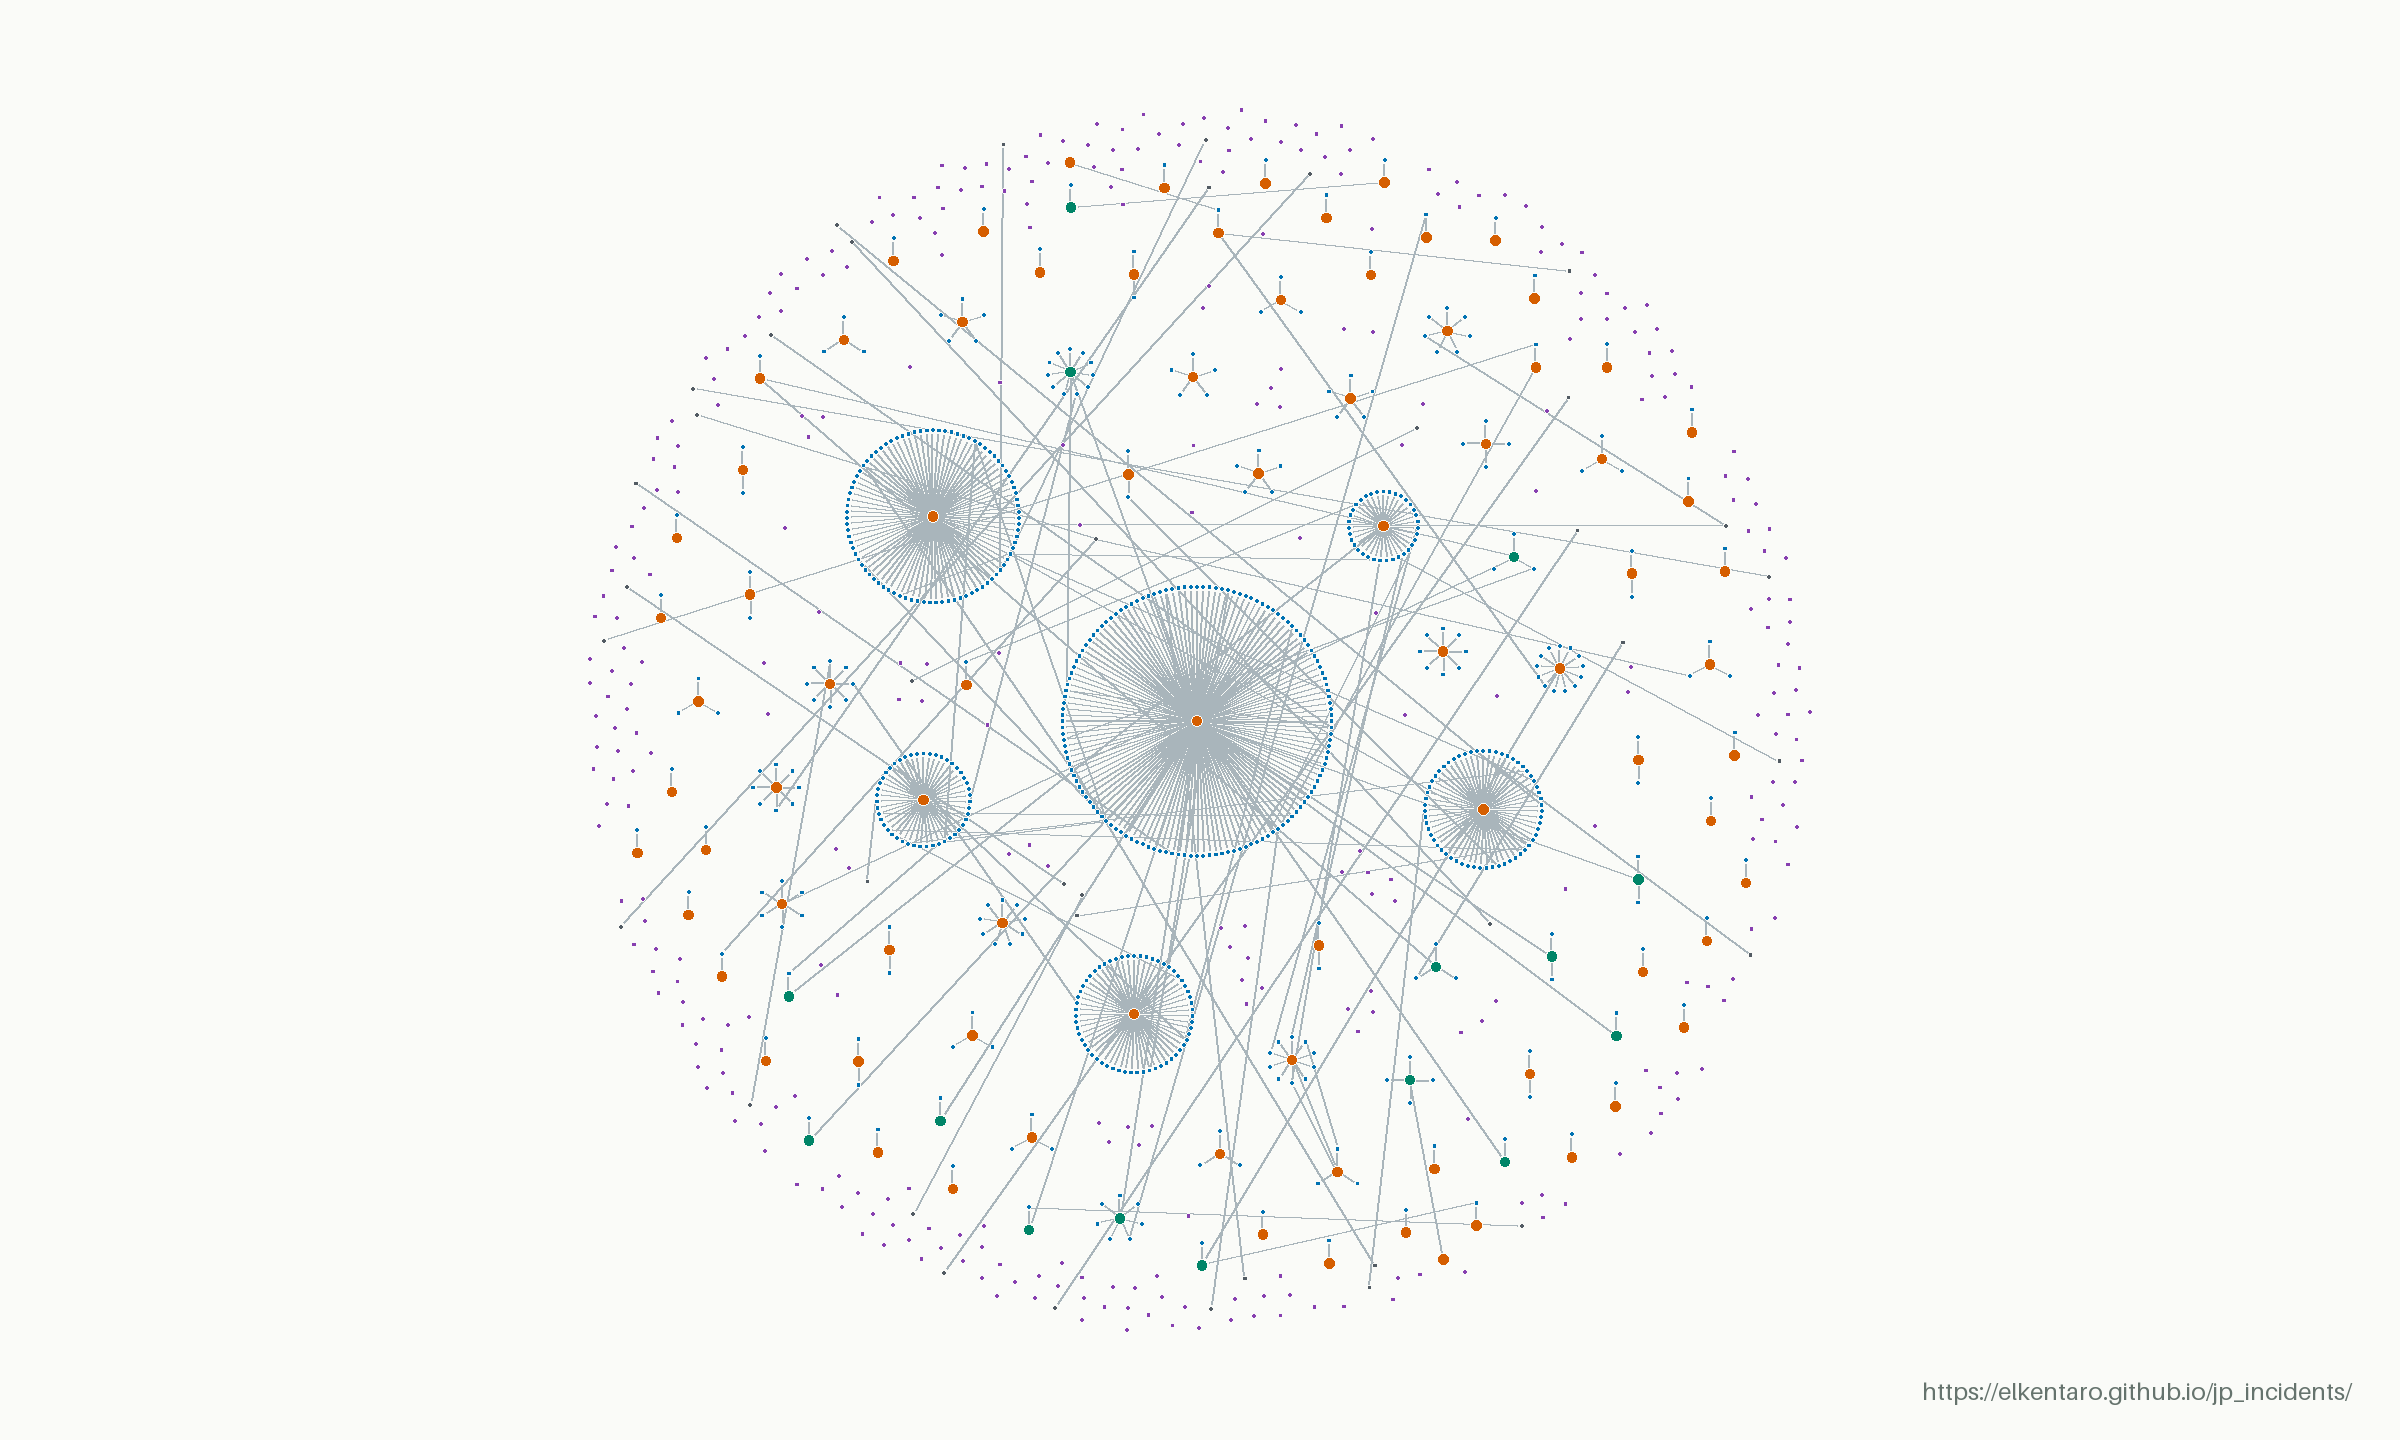
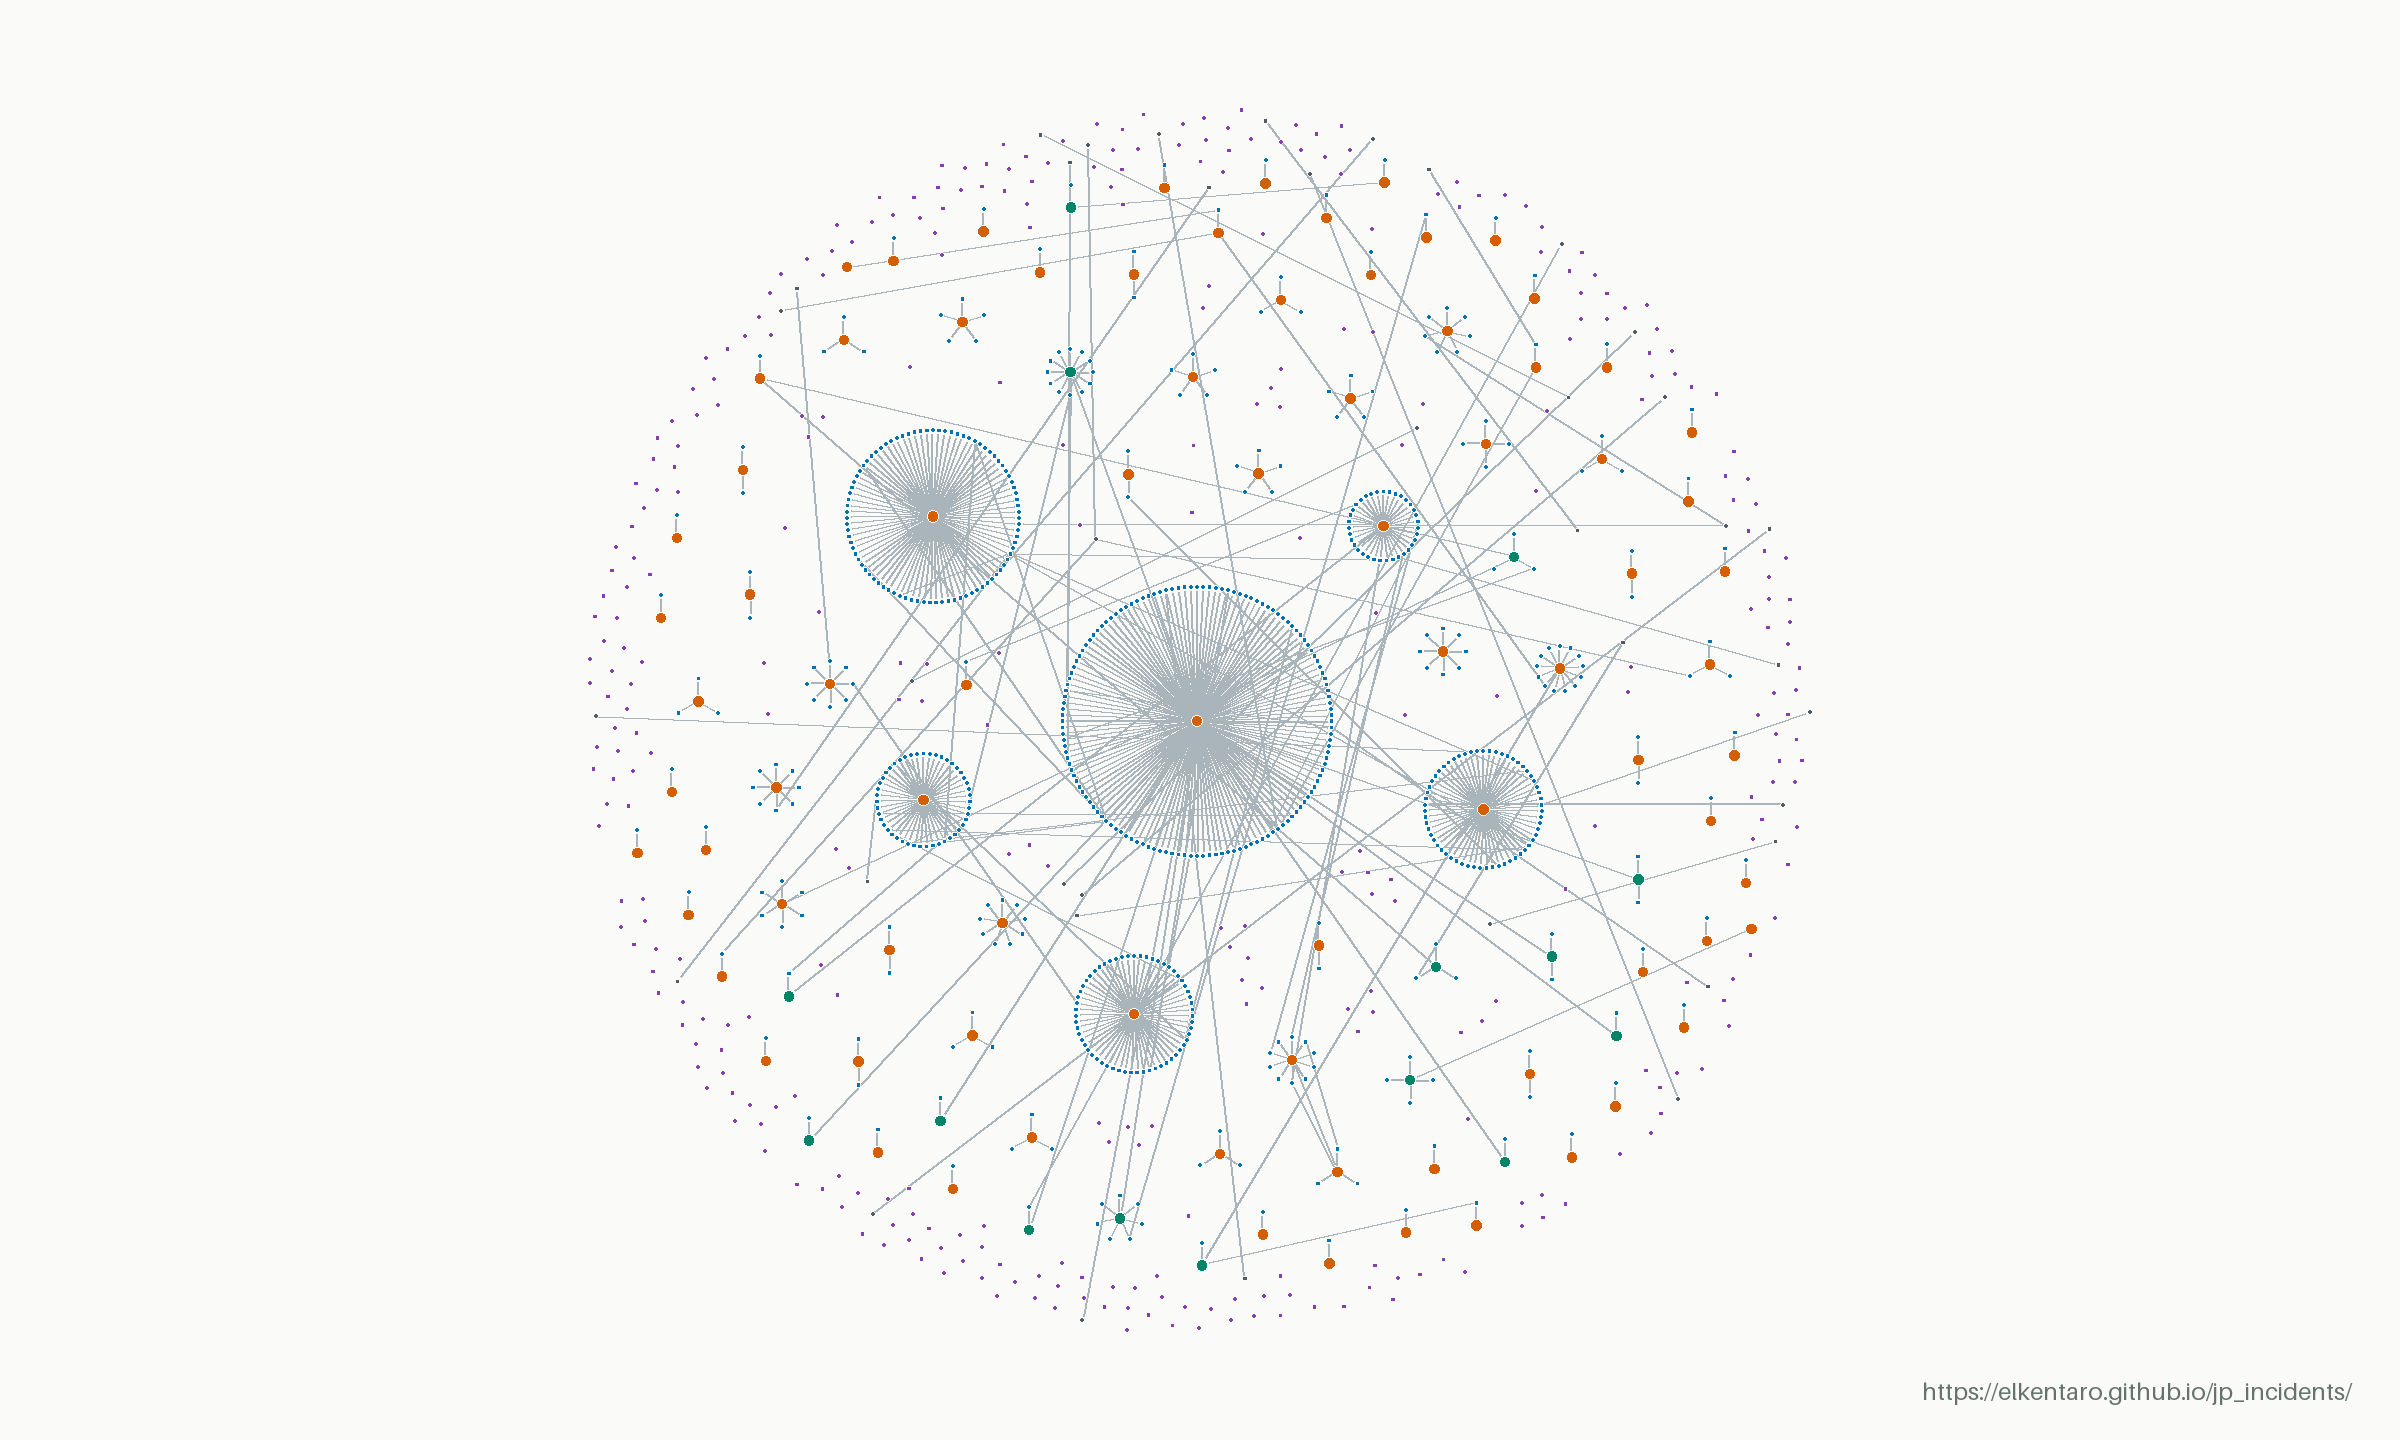
Update incident data (2026-11-12 11:16 UTC)

diff --git a/linkage.html b/linkage.html
@@ -32,17 +32,17 @@
     </section>
     <section class="direct-summary" aria-labelledby="direct-title">
       <dl class="direct-stats">
-        <div class="direct-total"><dt id="direct-title" data-copy="direct">Direct incidents</dt><dd id="direct-count">457</dd></div>
+        <div class="direct-total"><dt id="direct-title" data-copy="direct">Direct incidents</dt><dd id="direct-count">459</dd></div>
         <div><dt data-copy="directUpstream">Upstream incidents</dt><dd id="upstream-count">82</dd></div>
-        <div><dt data-copy="directStandalone">Standalone incidents</dt><dd id="standalone-count">375</dd></div>
+        <div><dt data-copy="directStandalone">Standalone incidents</dt><dd id="standalone-count">377</dd></div>
       </dl>
-      <p class="direct-excluded"><strong id="downstream-count">660</strong> <span data-copy="directExcluded">downstream records excluded, including incidents with both roles.</span></p>
+      <p class="direct-excluded"><strong id="downstream-count">661</strong> <span data-copy="directExcluded">downstream records excluded, including incidents with both roles.</span></p>
       <p class="direct-definition" data-copy="directDefinition">Direct incidents = upstream + standalone, based on recorded causal links. Standalone incidents have no upstream or downstream causal links, but may have other links, such as separate events at the same organization.</p>
     </section>
     <dl class="map-stats">
-      <div><dt data-copy="total">Incidents in snapshot</dt><dd>1117</dd></div>
-      <div><dt data-copy="linked">With recorded connections</dt><dd>780</dd></div>
-      <div><dt data-copy="links">Recorded connections</dt><dd>731</dd></div>
+      <div><dt data-copy="total">Incidents in snapshot</dt><dd>1120</dd></div>
+      <div><dt data-copy="linked">With recorded connections</dt><dd>781</dd></div>
+      <div><dt data-copy="links">Recorded connections</dt><dd>732</dd></div>
       <div><dt data-copy="networks">Connected networks</dt><dd>71</dd></div>
     </dl>
     <figure class="map-figure">
@@ -50,13 +50,13 @@
         <img src="data/linkage-map.png" width="2400" height="1440" alt="Anonymized incident map. Orange upstream hubs connect to blue downstream incidents; purple unlinked incidents appear throughout the same map without connecting lines." data-copy-alt="alt">
       </div>
       <figcaption>
-        <div class="map-caption-meta"><span><span data-copy="updated">Last updated</span>: <time datetime="2026-11-12T10:15:34.471432+00:00">2026-11-12 10:15 UTC</time></span><a href="data/linkage-map.png" target="_blank" rel="noopener" data-copy="open">Open full-resolution image ↗</a></div>
+        <div class="map-caption-meta"><span><span data-copy="updated">Last updated</span>: <time datetime="2026-11-12T11:15:59.410371+00:00">2026-11-12 11:15 UTC</time></span><a href="data/linkage-map.png" target="_blank" rel="noopener" data-copy="open">Open full-resolution image ↗</a></div>
         <div class="map-key-section">
           <strong id="map-key-title" data-copy="key">Key</strong>
           <ul class="map-key" aria-labelledby="map-key-title">
             <li><span class="key-dot upstream" aria-hidden="true"></span><span data-copy="keyUpstream">Upstream</span></li>
             <li><span class="key-dot downstream" aria-hidden="true"></span><span data-copy="keyDownstream">Downstream</span></li>
-            <li><span class="key-dot standalone" aria-hidden="true"></span><span data-copy="keyStandalone">Unlinked</span><span>(337)</span></li>
+            <li><span class="key-dot standalone" aria-hidden="true"></span><span data-copy="keyStandalone">Unlinked</span><span>(339)</span></li>
             <li><span class="key-dot both" aria-hidden="true"></span><span data-copy="keyBoth">Both roles</span></li>
             <li><span class="key-dot related" aria-hidden="true"></span><span data-copy="keyRelated">Other related</span></li>
             <li><span class="key-line" aria-hidden="true"></span><span data-copy="keyRelationship">Recorded relationship</span></li>
@@ -69,7 +69,7 @@
       <section><h2 data-copy="readingTitle">Reading the map</h2><p data-copy="reading">Orange marks upstream incidents, blue downstream incidents, and purple unlinked incidents with no recorded connection. Teal marks incidents with both upstream and downstream roles; charcoal marks other related incidents. A missing connection does not establish that two incidents are unrelated.</p></section>
       <section><h2 data-copy="snapshotTitle">About this snapshot</h2><p data-copy="snapshot">The static image is refreshed when published incidents or relationships change, and at least every 24 hours during normal publication. Larger upstream clusters have extra spacing to keep their victims apart. Names, incident IDs, source links and incident dates are omitted; the connection pattern is retained. It is an overview of recorded relationships, not a complete map of cyber incidents in Japan.</p></section>
     </div>
-    <p class="map-source"><span data-copy="sourceUpdated">Source data updated</span>: <time datetime="2026-11-12T10:15:34+00:00">2026-11-12T10:15:34+00:00</time> · <a href="./" data-copy="browse">Browse the incident index</a></p>
+    <p class="map-source"><span data-copy="sourceUpdated">Source data updated</span>: <time datetime="2026-11-12T11:15:59+00:00">2026-11-12T11:15:59+00:00</time> · <a href="./" data-copy="browse">Browse the incident index</a></p>
   </main>
   <footer><div class="shell footer-inner"><p data-copy="footer">Public reports. Recorded relationships. An anonymized overview.</p><a href="./" data-copy="back">Back to incidents</a></div></footer>
   <script src="linkage.js?v=20261107-spacing" defer></script>
